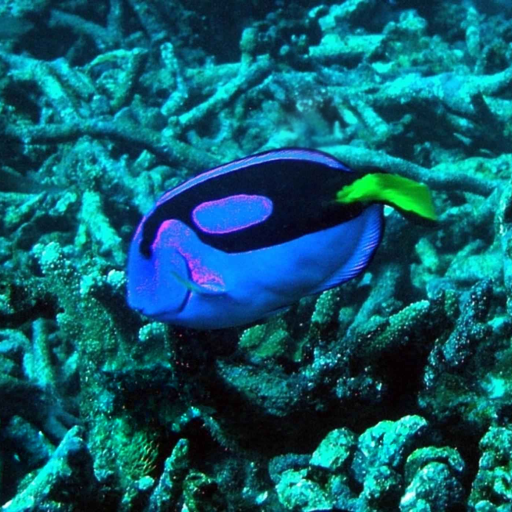
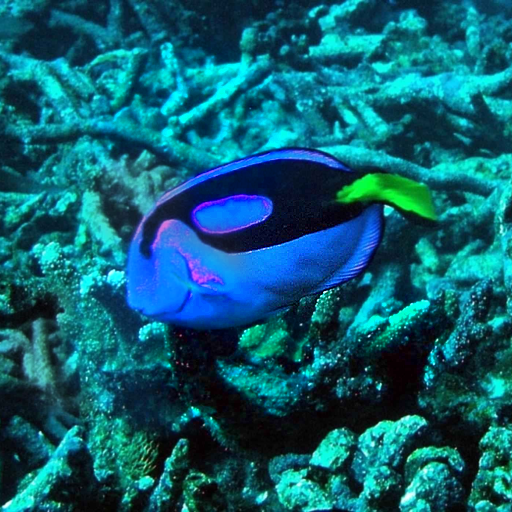
feat(playground): stronger noise/texture/distortion previews for gallery
Bump generator parameters (ChurchNoise, ProCAM, Drust, Smugs, TeaStains,
LuxferGlass, DifPresets, BasicAugmentation) so marketing PNGs read clearly.
Sync AugmentationGallery copy and ATTRIBUTION.md with the script; regenerate assets.

Made-with: Cursor

diff --git a/src/components/AugmentationGallery.tsx b/src/components/AugmentationGallery.tsx
@@ -42,7 +42,7 @@ const allAugmentations: AugmentationType[] = [
     runtime: "GPU",
     tagline: "Spatially-varying sensor noise",
     description:
-      "Partitions the image into regions using random lines, then applies a different noise profile (white, Gaussian, or pink) per region with configurable strength. Intensity blending controls how much of the augmented image replaces the original. All previews on this page were generated with bnnr.augmentations.ChurchNoise (probability=1.0, intensity=0.5, num_lines=3).",
+      "Partitions the image into regions using random lines, then applies a different noise profile (white, Gaussian, or pink) per region with configurable strength. Intensity blending controls how much of the augmented image replaces the original. Previews on this page use a stronger marketing preset: bnnr.augmentations.ChurchNoise (probability=1.0, intensity=1.0, num_lines=5, noise_strength_range=(12, 32)).",
     benefit:
       "Helps models tolerate noise that varies spatially across the frame — typical of cheap cameras, low-light capture, or mixed sensor readouts — without assuming a single global noise profile.",
   },
@@ -53,7 +53,7 @@ const allAugmentations: AugmentationType[] = [
     runtime: "GPU",
     tagline: "Camera hardware simulation",
     description:
-      "Simulates different camera hardware profiles by applying white balance shifts and gamma correction. Built-in profiles: cheap, smartphone, pro, webcam, darkroom. Runs on CUDA tensors for maximum throughput. Previews generated with bnnr.augmentations.ProCAM (probability=1.0).",
+      "Simulates different camera hardware profiles by applying white balance shifts and gamma correction. Built-in profiles: cheap, smartphone, pro, webcam, darkroom. Runs on CUDA tensors for maximum throughput. Previews use bnnr.augmentations.ProCAM (probability=1.0, intensity=1.85) so the color shift reads clearly in the gallery.",
     benefit:
       "Useful when training data comes from one camera family but deployment spans different white balance, gamma, and color response — it encourages invariance to those shifts.",
   },
@@ -64,7 +64,7 @@ const allAugmentations: AugmentationType[] = [
     runtime: "CPU",
     tagline: "Dust and debris on lens",
     description:
-      "Generates multi-layer particle overlays with per-particle Gaussian blur, simulating dust, dirt, and debris on a lens. Each particle has randomized size, opacity, position, and blur radius. Previews generated with bnnr.augmentations.Drust (probability=1.0, intensity=2.0, layers=4, base_particles=2000).",
+      "Generates multi-layer particle overlays with per-particle Gaussian blur, simulating dust, dirt, and debris on a lens. Each particle has randomized size, opacity, position, and blur radius. Previews use a denser preset: bnnr.augmentations.Drust (probability=1.0, intensity=2.0, layers=6, base_particles=6500).",
     benefit:
       "Makes models robust to dirty lenses in outdoor and industrial environments — surveillance cameras, factory inspection, agriculture drones, autonomous vehicles.",
   },
@@ -75,7 +75,7 @@ const allAugmentations: AugmentationType[] = [
     runtime: "CPU",
     tagline: "Fingerprint smudges and grease",
     description:
-      "Creates elongated, streak-based HSV modifications that mimic fingerprint smudges and grease marks on a lens. The streaks follow natural finger motion patterns with directional color shifts. Previews generated with bnnr.augmentations.Smugs (probability=1.0, intensity=2.0, num_streaks=8).",
+      "Creates elongated, streak-based HSV modifications that mimic fingerprint smudges and grease marks on a lens. The streaks follow natural finger motion patterns with directional color shifts. Previews use bnnr.augmentations.Smugs (probability=1.0, intensity=2.0, num_streaks=14).",
     benefit:
       "Reduces sensitivity to fingerprints, grease, and streaks on the lens — common in handheld devices, kiosks, and field-deployed cameras.",
   },
@@ -86,7 +86,7 @@ const allAugmentations: AugmentationType[] = [
     runtime: "CPU",
     tagline: "Stain and watermark overlays",
     description:
-      "Applies palette-based stain overlays with organic texture masks, simulating dried liquid marks, watermarks, or natural blemishes. Each stain has a unique shape derived from image palette colors. Previews generated with bnnr.augmentations.TeaStains (probability=1.0, intensity=0.5).",
+      "Applies palette-based stain overlays with organic texture masks, simulating dried liquid marks, watermarks, or natural blemishes. Each stain has a unique shape derived from image palette colors. Previews use bnnr.augmentations.TeaStains (probability=1.0, intensity=1.35).",
     benefit:
       "Adds controlled stain-like overlays that mimic smudges, dried liquid marks, or uneven surface texture — relevant for documents, microscopy-style imagery, and worn surfaces.",
   },
@@ -97,7 +97,7 @@ const allAugmentations: AugmentationType[] = [
     runtime: "CPU",
     tagline: "Frosted glass refraction",
     description:
-      "Divides the image into a configurable grid and applies localized refraction-like displacement with wave effects. Simulates viewing through textured or frosted glass — preserves overall structure while distorting fine details. Previews generated with bnnr.augmentations.LuxferGlass (probability=1.0, intensity=0.5).",
+      "Divides the image into a configurable grid and applies localized refraction-like displacement with wave effects. Simulates viewing through textured or frosted glass — preserves overall structure while distorting fine details. Previews use a stronger grid/wave preset: bnnr.augmentations.LuxferGlass (probability=1.0, intensity=1.0, grid_range=(48, 96), glass_thickness=(0.07, 0.16), wave_strength=(0.55, 1.15), blur_kernel=(3, 9)).",
     benefit:
       "Simulates imaging through protective covers, plastic housings, or underwater enclosures — common in industrial inspection, underwater robotics, and security cameras.",
   },
@@ -108,7 +108,7 @@ const allAugmentations: AugmentationType[] = [
     runtime: "GPU",
     tagline: "Color temperature circles",
     description:
-      "Randomly places circular regions on the image and applies color temperature shifts inside them — warm, cold, vivid, faded, sharpened, or blurred. Runs natively on CUDA tensors. Previews generated with bnnr.augmentations.DifPresets (probability=1.0, intensity=0.7).",
+      "Randomly places circular regions on the image and applies color temperature shifts inside them — warm, cold, vivid, faded, sharpened, or blurred. Runs natively on CUDA tensors. Previews use more/larger circles: bnnr.augmentations.DifPresets (probability=1.0, intensity=1.5, num_circles_range=(6, 11), radius_range=(28, 100), feather=26).",
     benefit:
       "Supports mixed-lighting deployment: warm indoor, cold outdoor, fluorescent, or LED — local color temperature pockets without relighting the whole scene.",
   },
@@ -119,7 +119,7 @@ const allAugmentations: AugmentationType[] = [
     runtime: "CPU",
     tagline: "General-purpose regional transforms",
     description:
-      "Applies chromatic aberration or HSV adjustments to random rectangular regions, with an optional global Gaussian blur. A mild, versatile transform for general use. Previews generated with bnnr.augmentations.BasicAugmentation (probability=1.0, intensity=0.5).",
+      "Applies chromatic aberration or HSV adjustments to random rectangular regions, with an optional global Gaussian blur. A mild, versatile transform for general use. Previews use a stronger gallery preset: bnnr.augmentations.BasicAugmentation (probability=1.0, intensity=1.2, global_blur_sigma=0.65).",
     benefit:
       "A safe baseline augmentation that adds diversity without strong domain assumptions. Good starting point when you're unsure which degradation matters most for your use case.",
   },

diff --git a/scripts/generate_playground_assets.py b/scripts/generate_playground_assets.py
@@ -155,40 +155,61 @@ def main() -> None:
 
         base_seed = 910_000 + d_idx * 10_000
 
+        # Stronger noise / texture / distortion than default training presets so
+        # marketing previews read clearly on the Playground (still valid BNNR APIs).
         augs: dict[str, Callable[[], object]] = {
             "church_noise": lambda s=base_seed + 1: ChurchNoise(
                 probability=1.0,
-                intensity=0.5,
-                num_lines=3,
+                intensity=1.0,
+                num_lines=5,
+                noise_strength_range=(12.0, 32.0),
                 random_state=s,
             ),
             "procam": lambda s=base_seed + 2: ProCAM(
-                probability=1.0, random_state=s
+                probability=1.0,
+                intensity=1.85,
+                random_state=s,
             ),
             "drust": lambda s=base_seed + 3: Drust(
                 probability=1.0,
                 intensity=2.0,
-                layers=4,
-                base_particles=2000,
+                layers=6,
+                base_particles=6500,
                 random_state=s,
             ),
             "smugs": lambda s=base_seed + 4: Smugs(
                 probability=1.0,
                 intensity=2.0,
-                num_streaks=8,
+                num_streaks=14,
                 random_state=s,
             ),
             "tea_stains": lambda s=base_seed + 5: TeaStains(
-                probability=1.0, intensity=0.5, random_state=s
+                probability=1.0,
+                intensity=1.35,
+                random_state=s,
             ),
             "luxfer_glass": lambda s=base_seed + 6: LuxferGlass(
-                probability=1.0, intensity=0.5, random_state=s
+                probability=1.0,
+                intensity=1.0,
+                grid_range=(48, 96),
+                glass_thickness=(0.07, 0.16),
+                wave_strength=(0.55, 1.15),
+                blur_kernel=(3, 9),
+                random_state=s,
             ),
             "dif_presets": lambda s=base_seed + 7: DifPresets(
-                probability=1.0, intensity=0.7, random_state=s
+                probability=1.0,
+                intensity=1.5,
+                num_circles_range=(6, 11),
+                radius_range=(28, 100),
+                feather=26,
+                random_state=s,
             ),
             "basic_augmentation": lambda s=base_seed + 8: BasicAugmentation(
-                probability=1.0, intensity=0.5, random_state=s
+                probability=1.0,
+                intensity=1.2,
+                global_blur_sigma=0.65,
+                random_state=s,
             ),
         }
 

diff --git a/public/playground/ATTRIBUTION.md b/public/playground/ATTRIBUTION.md
@@ -30,7 +30,7 @@ You must retain attribution when reusing the **original photograph**; the BNNR-g
 
 ## Augmented previews
 
-All `vehicle_*.png` and `fish_*.png` files except the two originals above are **outputs of BNNR** augmentations, using the same parameter choices described on the Playground page (e.g. ChurchNoise `intensity=0.5`, `num_lines=3`; ICD / AICD with the stated tile sizes and percentiles).
+All `vehicle_*.png` and `fish_*.png` files except the two originals above are **outputs of BNNR** augmentations. Noise, texture, and distortion previews use **stronger “gallery” parameters** than typical training defaults (see `scripts/generate_playground_assets.py` and the Playground copy). ICD / AICD use the tile sizes and percentiles stated on the Playground page.
 
 ## Saliency and ICD / AICD
 
